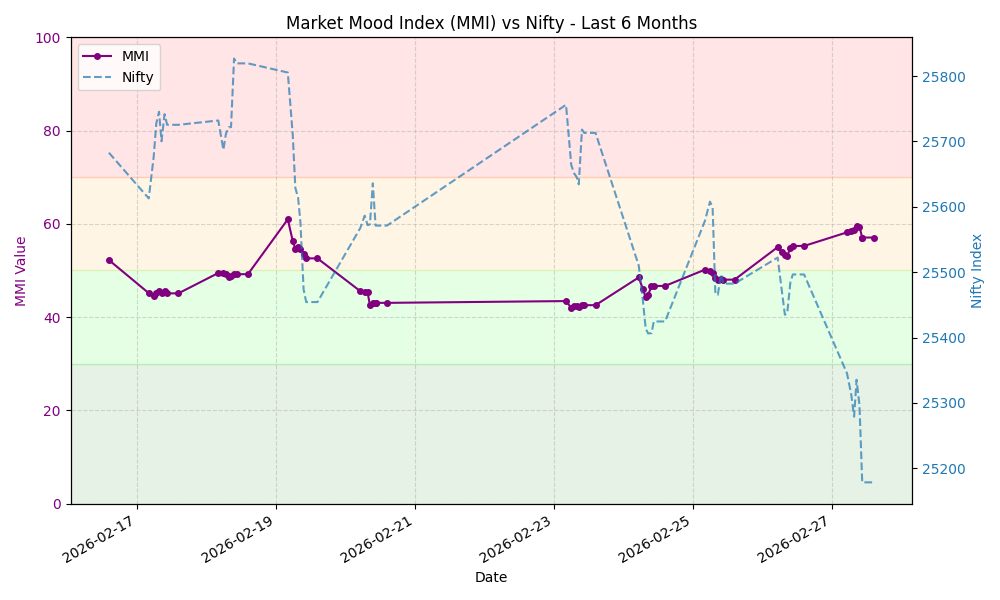
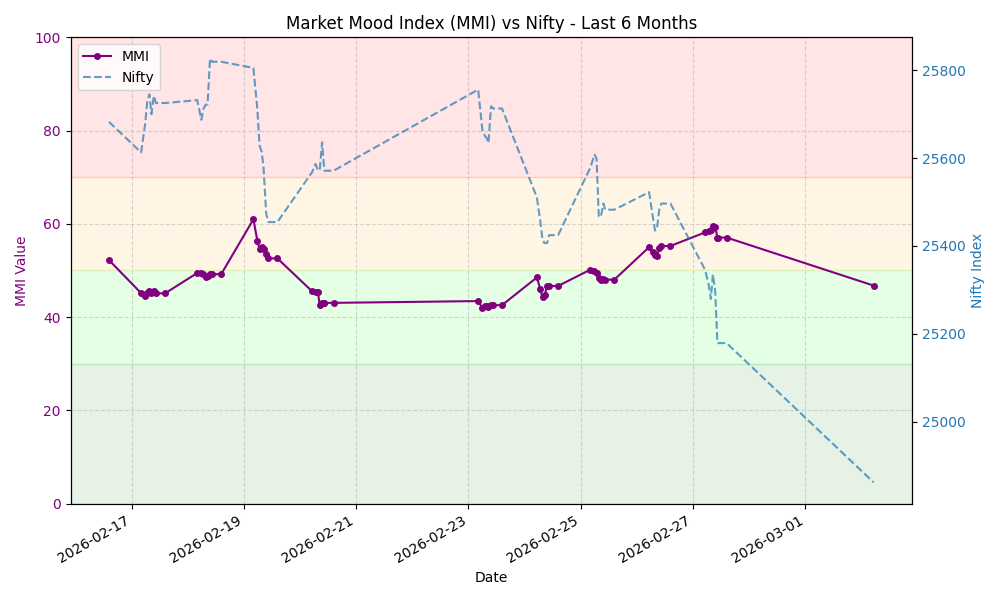
Update MMI data and chart

diff --git a/README.md b/README.md
@@ -7,8 +7,8 @@ This repository automatically fetches the MMI value, stores the history, and gen
 
 ## Latest MMI Value
 
-**57.06** - **Greed**
-<small>Last Updated: 2026-02-27 14:20 UTC</small>
+**46.75** - **Fear**
+<small>Last Updated: 2026-03-02 05:09 UTC</small>
 
 ## MMI Trend (Last 30 Days)
 
